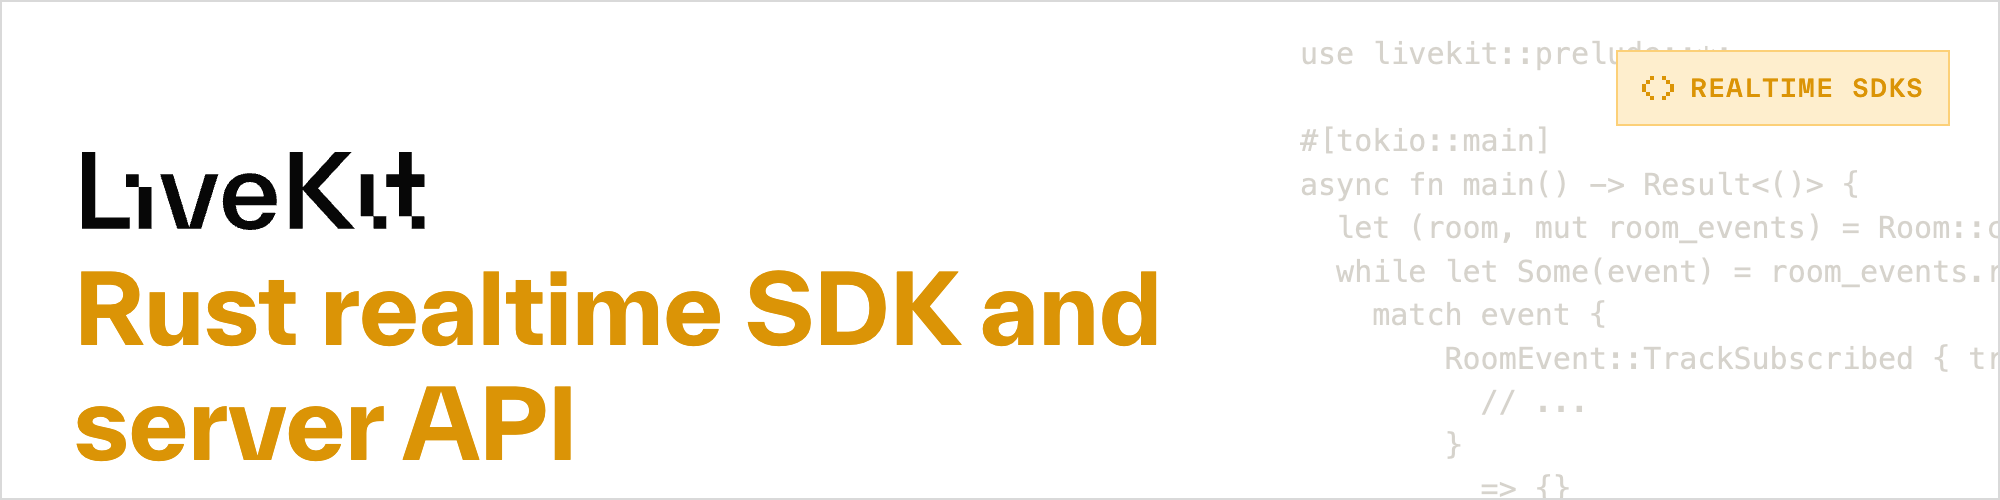
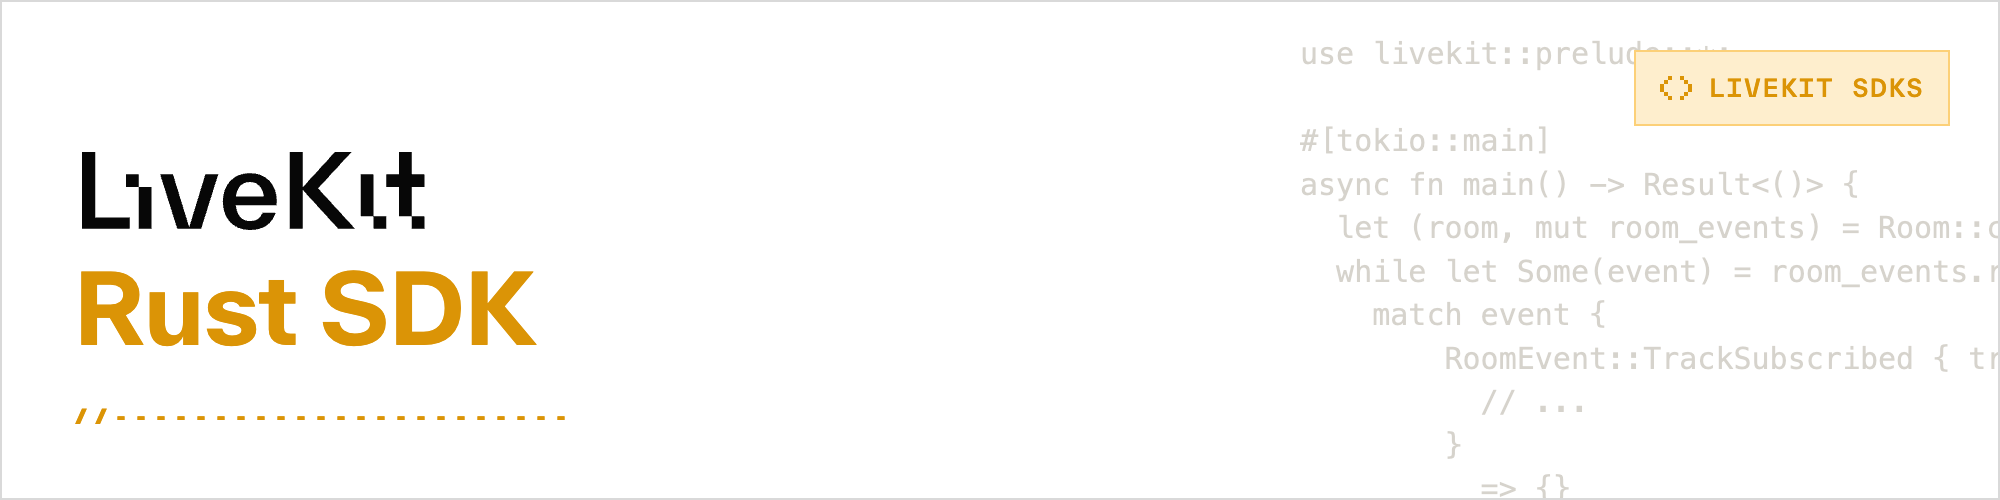
update readme

Changed region(s): [[0.155, 0.54, 0.589, 0.69], [0.031, 0.75, 0.31, 0.93], [0.806, 0.09, 0.93, 0.27]]

diff --git a/README.md b/README.md
@@ -188,9 +188,10 @@ We'll first use it as a basis for our Unity SDK (under development), but over ti
 <br/><table>
 <thead><tr><th colspan="2">LiveKit Ecosystem</th></tr></thead>
 <tbody>
-<tr><td>Realtime SDKs</td><td><a href="https://github.com/livekit/components-js">React Components</a> · <a href="https://github.com/livekit/client-sdk-js">Browser</a> · <a href="https://github.com/livekit/components-swift">Swift Components</a> · <a href="https://github.com/livekit/client-sdk-swift">iOS/macOS/visionOS</a> · <a href="https://github.com/livekit/client-sdk-android">Android</a> · <a href="https://github.com/livekit/client-sdk-flutter">Flutter</a> · <a href="https://github.com/livekit/client-sdk-react-native">React Native</a> · <b>Rust</b> · <a href="https://github.com/livekit/node-sdks">Node.js</a> · <a href="https://github.com/livekit/python-sdks">Python</a> · <a href="https://github.com/livekit/client-sdk-unity-web">Unity (web)</a> · <a href="https://github.com/livekit/client-sdk-unity">Unity (beta)</a></td></tr><tr></tr>
-<tr><td>Server APIs</td><td><a href="https://github.com/livekit/node-sdks">Node.js</a> · <a href="https://github.com/livekit/server-sdk-go">Golang</a> · <a href="https://github.com/livekit/server-sdk-ruby">Ruby</a> · <a href="https://github.com/livekit/server-sdk-kotlin">Java/Kotlin</a> · <a href="https://github.com/livekit/python-sdks">Python</a> · <b>Rust</b> · <a href="https://github.com/agence104/livekit-server-sdk-php">PHP (community)</a></td></tr><tr></tr>
-<tr><td>Agents Frameworks</td><td><a href="https://github.com/livekit/agents">Python</a> · <a href="https://github.com/livekit/agent-playground">Playground</a></td></tr><tr></tr>
+<tr><td>LiveKit SDKs</td><td><a href="https://github.com/livekit/client-sdk-js">Browser</a> · <a href="https://github.com/livekit/client-sdk-swift">iOS/macOS/visionOS</a> · <a href="https://github.com/livekit/client-sdk-android">Android</a> · <a href="https://github.com/livekit/client-sdk-flutter">Flutter</a> · <a href="https://github.com/livekit/client-sdk-react-native">React Native</a> · <b>Rust</b> · <a href="https://github.com/livekit/node-sdks">Node.js</a> · <a href="https://github.com/livekit/python-sdks">Python</a> · <a href="https://github.com/livekit/client-sdk-unity">Unity</a> · <a href="https://github.com/livekit/client-sdk-unity-web">Unity (WebGL)</a></td></tr><tr></tr>
+<tr><td>Server APIs</td><td><a href="https://github.com/livekit/node-sdks">Node.js</a> · <a href="https://github.com/livekit/server-sdk-go">Golang</a> · <a href="https://github.com/livekit/server-sdk-ruby">Ruby</a> · <a href="https://github.com/livekit/server-sdk-kotlin">Java/Kotlin</a> · <a href="https://github.com/livekit/python-sdks">Python</a> · <b>Rust</b> · <a href="https://github.com/agence104/livekit-server-sdk-php">PHP (community)</a> · <a href="https://github.com/pabloFuente/livekit-server-sdk-dotnet">.NET (community)</a></td></tr><tr></tr>
+<tr><td>UI Components</td><td><a href="https://github.com/livekit/components-js">React</a> · <a href="https://github.com/livekit/components-android">Android Compose</a> · <a href="https://github.com/livekit/components-swift">SwiftUI</a></td></tr><tr></tr>
+<tr><td>Agents Frameworks</td><td><a href="https://github.com/livekit/agents">Python</a> · <a href="https://github.com/livekit/agents-js">Node.js</a> · <a href="https://github.com/livekit/agent-playground">Playground</a></td></tr><tr></tr>
 <tr><td>Services</td><td><a href="https://github.com/livekit/livekit">LiveKit server</a> · <a href="https://github.com/livekit/egress">Egress</a> · <a href="https://github.com/livekit/ingress">Ingress</a> · <a href="https://github.com/livekit/sip">SIP</a></td></tr><tr></tr>
 <tr><td>Resources</td><td><a href="https://docs.livekit.io">Docs</a> · <a href="https://github.com/livekit-examples">Example apps</a> · <a href="https://livekit.io/cloud">Cloud</a> · <a href="https://docs.livekit.io/home/self-hosting/deployment">Self-hosting</a> · <a href="https://github.com/livekit/livekit-cli">CLI</a></td></tr>
 </tbody>
